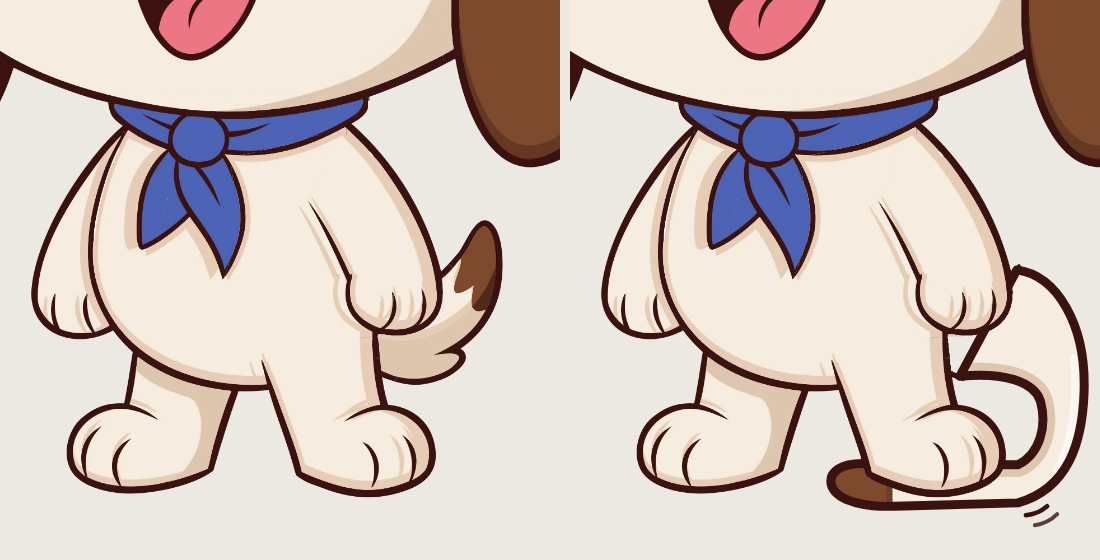
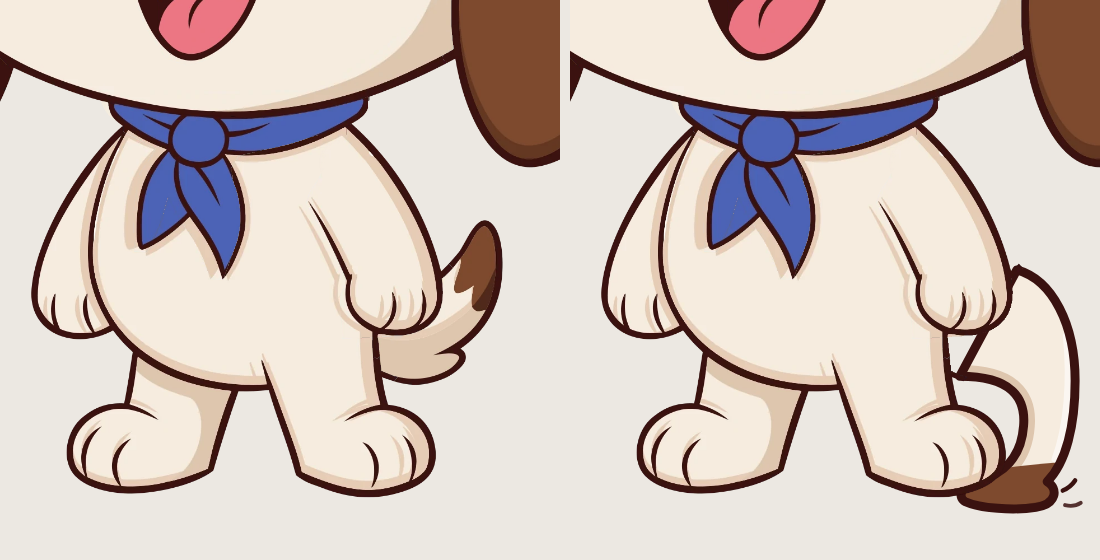
Kino pati-kuyruk duzeltildi (asil kuyruk boyunda, uc patinin altinda)

Changed region(s): [[0.7418, 0.4857, 0.9891, 0.9411]]

diff --git a/ekip/kino/IFADELER.md b/ekip/kino/IFADELER.md
@@ -27,11 +27,11 @@ Ayrıca:
 
 | Hâl | Göster | Gizle | Not |
 |---|---|---|---|
-| kuyruğu patiyle bastırılmış | `pati-kuyruk` | `kuyruk` | Kuyruk kökten aşağı iner, sağ arka patinin altından geçer. Kahverengi ucu iki pati arasında görünür. Patinin sağ altında iki küçük sıkışma çizgisi var. |
+| kuyruğu patiyle bastırılmış | `pati-kuyruk` | `kuyruk` | Asıl kuyruk kalınlığında ve boyunda. Kökten bacağın sağından kıvrılıp yere iner. Kahverengi uç sağ arka patinin altında yassı ve ezik; yalnız patinin sağında ve altında görünür. Ucun sağında iki küçük sıkışma çizgisi var. |
 
 - Katman gövdenin altında: SVG'de ve json `sira`da `kuyruk`un hemen arkasında. Pati gövde katmanında olduğu için kuyruğun üstünde kalır, "basıyor" görünür.
 - Kök, eski kuyruğun kol ve bacak yanındaki kontur uçlarına oturur; `kuyruk` gizlenince bu uçlar açıkta kalmaz.
-- Dönme noktası 1330,1620 (kök). Bağlı değil, `kuyruk` gibi üst düzey. Sallanma isteniyorsa kod ucu (1100,1865) çevresinde küçük titretir; kök dönmesi ±3°'yi geçmesin, yoksa pati altından kayar.
+- Dönme noktası 1330,1620 (kök). Bağlı değil, `kuyruk` gibi üst düzey. Sallanma isteniyorsa kod ucu (1400,1885) çevresinde küçük titretir; kök dönmesi ±3°'yi geçmesin, yoksa pati altından kayar.
 - Önizleme: `kino-pati-kuyruk.png` (solda normal, sağda pati-kuyruk).
 
 ## Dudak senkronu ağızları (vektör, gizli, kafaya bağlı)
